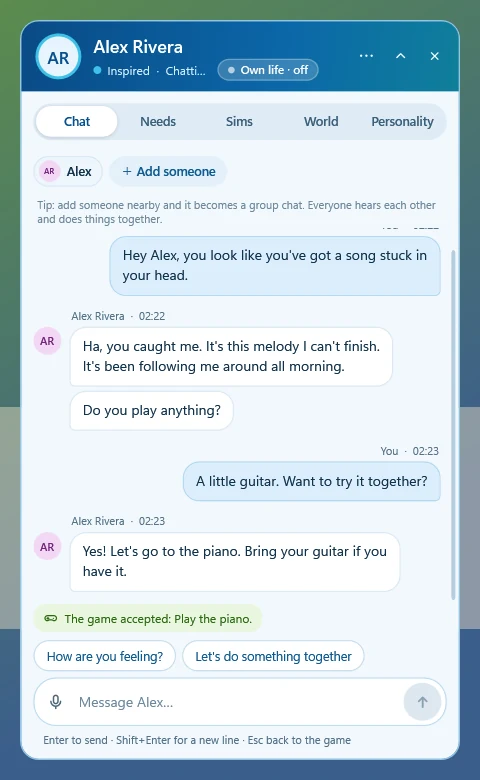
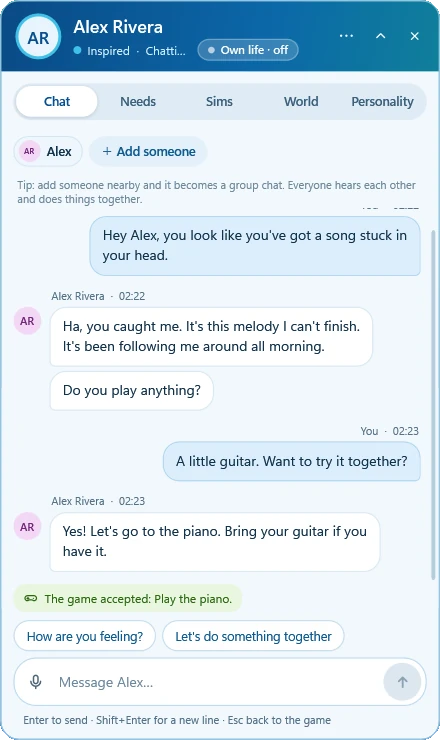
Update website

diff --git a/index.html b/index.html
@@ -137,7 +137,7 @@
   <div class="hero-art hero-art-game reveal" aria-hidden="true">
    <div class="halo"></div>
    <img class="hero-shot" src="assets/ingame-chat.webp" alt="Agentic Sims Live Chat beside two Sims talking in The Sims 4" fetchpriority="high" decoding="async" width="1920" height="1000">
-   <div class="hero-panel-wrap"><img class="hero-panel float" src="assets/panel-chat.webp" alt="" width="480" height="780"></div>
+   <div class="hero-panel-wrap"><img class="hero-panel float" src="assets/panel-chat.webp" alt="" width="440" height="740"></div>
   </div>
  </div>
  <div class="wrap trust reveal">
@@ -182,8 +182,8 @@
   </div>
   <div class="stage reveal">
    <div class="world" aria-hidden="true"></div>
-   <img class="stage-panel" src="assets/panel-typing.webp" alt="The Live Chat panel: a conversation with Alex Rivera, who is typing a reply." width="480" height="780" loading="lazy">
-   <img class="stage-mini" src="assets/panel-collapsed.webp" alt="The panel minimized to one line, showing an unread reply." width="480" height="112" loading="lazy">
+   <img class="stage-panel" src="assets/panel-typing.webp" alt="The Live Chat panel: a conversation with Alex Rivera, who is typing a reply." width="440" height="740" loading="lazy">
+   <img class="stage-mini" src="assets/panel-collapsed.webp" alt="The panel minimized to one line, showing an unread reply." width="440" height="72" loading="lazy">
   </div>
  </div>
 </section>
